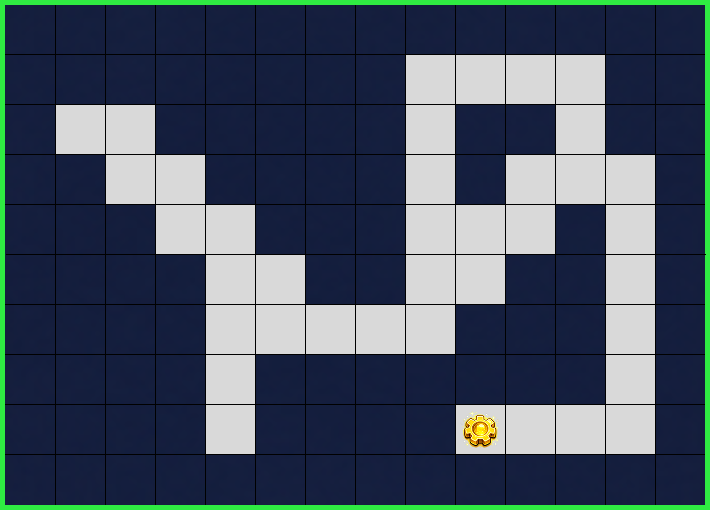
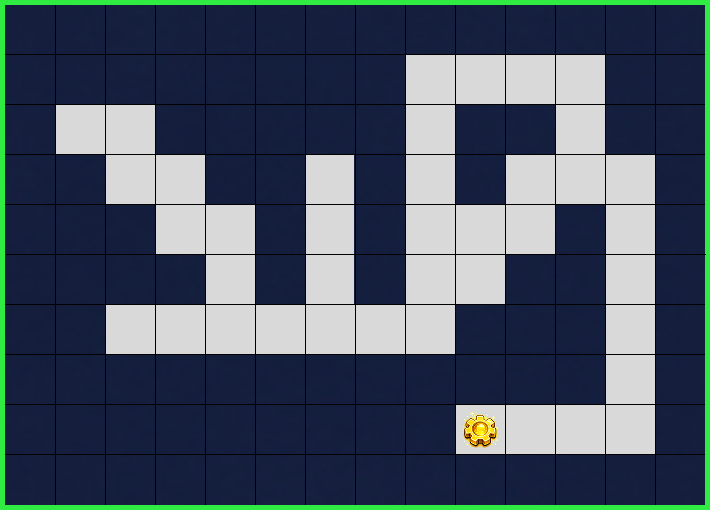
Redesign L5-9 grid + tighten L5-10 plasma to 2
L5-9 ("Walk Around, Don't Shoot"): replaced the maze image and
rewrote the grid to open up a row 0 / col 7 bridge route. The
new layout has 6 aliens but only 4 are on the forced path —
(3,3), (5,5), (9,0), (11,5). The (8,3) and (9,2) aliens become
decoys: a naive south-east sweep hits 5 chokepoints and dies on
the 5th, but a planner who routes up col 7 to row 0 and through
the (9,0) alien gets there in exactly 4 shots. Black holes also
repositioned to (1,5), (5,2), (8,4).

L5-10 ("Pick Up the Pieces"): plasmaSupply dropped from 3 to 2.
With 5 aliens and 2 starting plasma + 2 pickups, students must
either route around aliens or grab both pickups — making the
pickup mechanic load-bearing instead of just a safety net.

Changed region(s): [[0.1239, 0.5882, 0.3718, 0.9118], [0.3408, 0.2941, 0.4958, 0.6176]]

diff --git a/app/tools/code-lab/python/levels.ts b/app/tools/code-lab/python/levels.ts
@@ -2039,17 +2039,17 @@ if alien_in_sight() or not has_path_forward():
       grid: [
         [1,1,1,1,1,1,1,0,0,0,0,1],
         [0,0,1,1,1,1,1,0,1,1,0,1],
-        [1,0,0,1,1,1,1,0,1,0,0,0],
-        [1,1,0,0,1,1,1,0,0,0,1,0],
-        [1,1,1,0,0,1,1,0,0,1,1,0],
-        [1,1,1,0,0,0,0,0,1,1,1,0],
-        [1,1,1,0,1,1,1,1,1,1,1,0],
-        [1,1,1,0,1,1,1,1,0,0,0,0],
+        [1,0,0,1,1,0,1,0,1,0,0,0],
+        [1,1,0,0,1,0,1,0,0,0,1,0],
+        [1,1,1,0,1,0,1,0,0,1,1,0],
+        [1,0,0,0,0,0,0,0,1,1,1,0],
+        [1,1,1,1,1,1,1,1,1,1,1,0],
+        [1,1,1,1,1,1,1,1,0,0,0,0],
       ],
       startX:0, startY:1, startDir:1, exitX:8, exitY:7,
       image: { src: "/python-maze/python_5-9.png", width: 710, height: 510, cellPx: 50, originX: 55, originY: 55 },
-      blackHoles: [{ x: 3, y: 7 }, { x: 4, y: 4 }, { x: 8, y: 4 }],
-      aliens: [{ x: 3, y: 3 }, { x: 8, y: 3 }, { x: 9, y: 0 }, { x: 9, y: 2 }, { x: 11, y: 5 }, { x: 5, y: 5 }],
+      blackHoles: [{ x: 1, y: 5 }, { x: 5, y: 2 }, { x: 8, y: 4 }],
+      aliens: [{ x: 3, y: 3 }, { x: 5, y: 5 }, { x: 8, y: 3 }, { x: 9, y: 0 }, { x: 9, y: 2 }, { x: 11, y: 5 }],
       plasmaSupply: 4,
       starterCode: `# Some aliens are on the path. Some aren't. Spot the difference before you code.
 
@@ -2073,7 +2073,7 @@ if alien_in_sight() or not has_path_forward():
       blackHoles: [{ x: 8, y: 4 }, { x: 2, y: 0 }, { x: 1, y: 5 }],
       aliens: [{ x: 0, y: 4 }, { x: 5, y: 5 }, { x: 8, y: 2 }, { x: 1, y: 2 }, { x: 5, y: 0 }],
       plasmaPickups: [{ x: 10, y: 4 }, { x: 2, y: 1 }],
-      plasmaSupply: 3,
+      plasmaSupply: 2,
       starterCode: `# NEW: ⚡ pickups! Glowing blue cells give +1 plasma when you walk onto them.
 # More aliens than starting shots — plan a route that grabs the plasma you need.
 